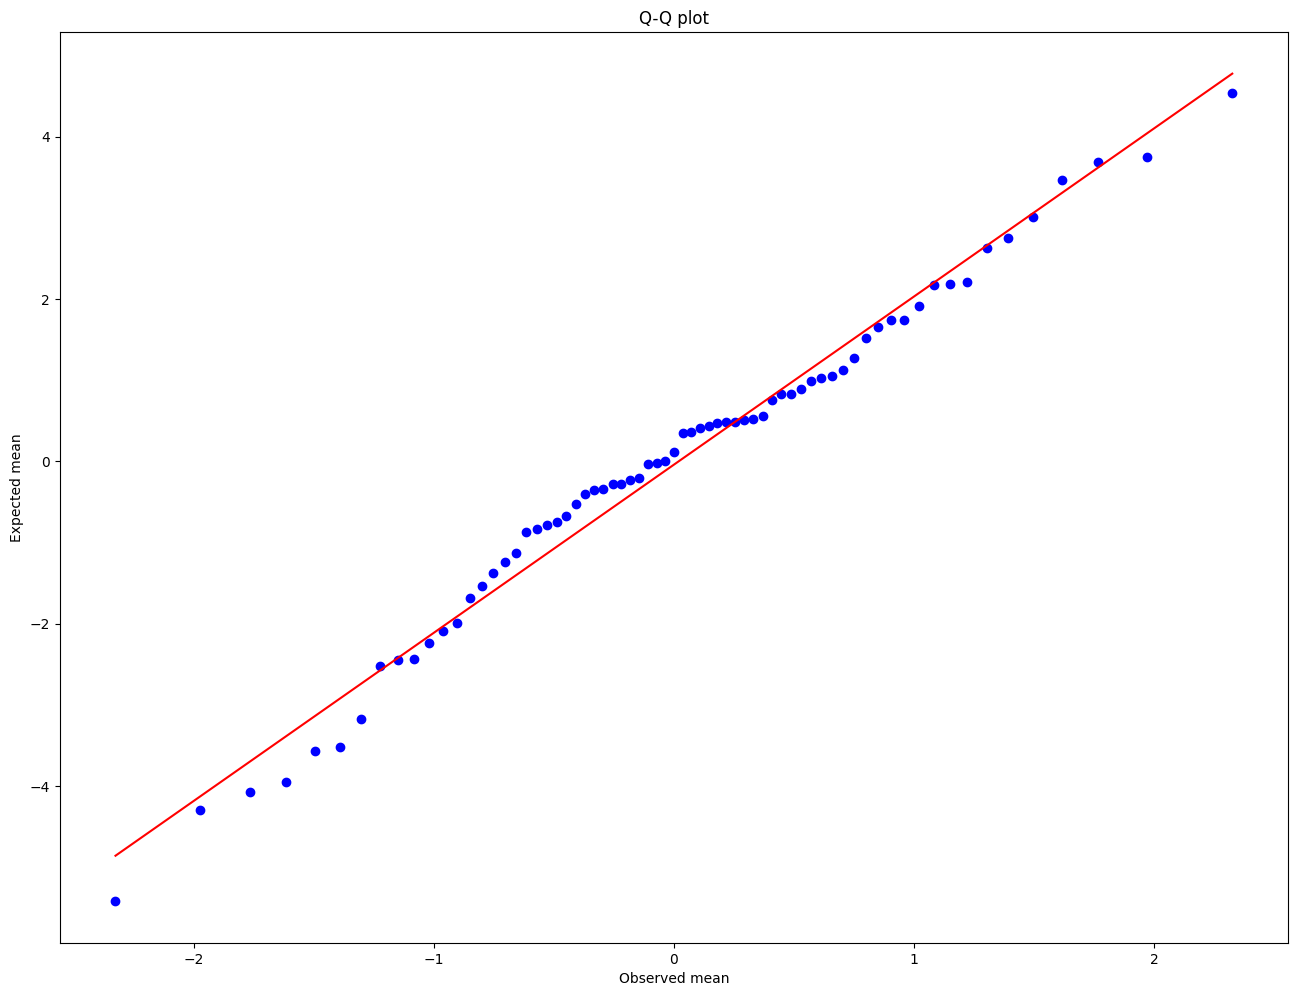
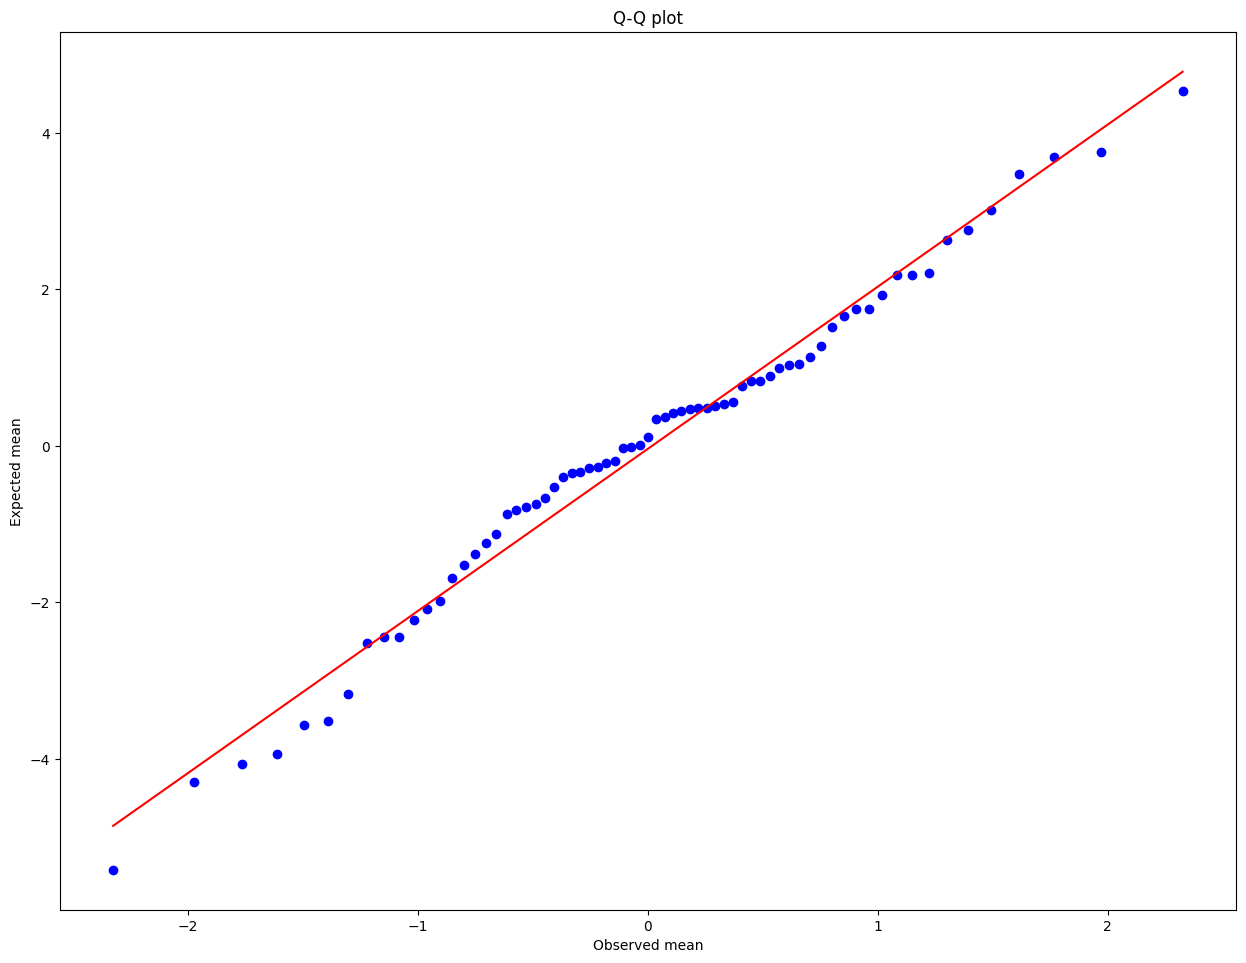
Adding README.

diff --git a/Comparison calimera/compare_all.py b/Comparison calimera/compare_all.py
@@ -11,6 +11,17 @@ import scipy.stats as stats
 import os
 import re
 
+def weight_a(data1, data2):
+    data1 = np.asarray(data1)
+    data2 = np.asarray(data2)
+    a = (np.var(data1) - np.cov(data1, data2, bias=False)[0][1]) / (np.var(data2) - np.cov(data1, data2, bias=False)[0][1] + np.var(data1))
+    return a
+
+def weight_a_minus(data1, data2):
+    data1 = np.asarray(data1)
+    data2 = np.asarray(data2)
+    a_minus = (np.var(data2) - np.cov(data1, data2, bias=False)[0][1]) / (np.var(data2) - np.cov(data1, data2, bias=False)[0][1] + np.var(data1))
+    return a_minus
 
 def hist_plot(data1, data2):
     data1 = np.asarray(data1)
@@ -19,16 +30,38 @@ def hist_plot(data1, data2):
     diff = data1 - data2
     plt.hist(diff)
 
+def calc_corr(data1, data2):
+    print("Corr coeff")
+    data1 = np.asarray(data1)
+    data2 = np.asarray(data2)
+    mean = np.mean([data1, data2], axis=0)
+    diff = data1 - data2
+    print(np.corrcoef(mean, diff))
+    print(np.corrcoef(data1, data2))
+
+def calc_variances(data1, data2):
+    print("Variances...")
+    print(np.var(data1))
+    print(np.var(data2))
+
 
 def calc_ks(data1, data2):
+    # p-value < 0.05 means: diff is not distributed normally (reject h0: from same distribution/normal distribution)
     data1 = np.asarray(data1)
     data2 = np.asarray(data2)
     mean = np.mean([data1, data2], axis=0)
     diff = data1 - data2
     return stats.kstest(diff, stats.norm.cdf)
 
+def calc_levene(data1, data2):
+    # p-value < 0.05 means: unequal variances of data1 and data2 (reject h0: equal variances)
+    stat, p_value = stats.levene(data1, data2)
+    print(f"Lavene's test statistic: {stat}")
+    print(f"P-value: {p_value}")
+
 
 def calc_shapiro(data1, data2):
+    # p-value > 0.05 means: do not reject null hypothesis: might be normally distributed
     data1 = np.asarray(data1)
     data2 = np.asarray(data2)
     mean = np.mean([data1, data2], axis=0)
@@ -44,7 +77,7 @@ def bland_altman(data1, data2, *args, **kwargs):
     md = np.mean(diff)  # Mean of the difference
     sd = np.std(diff, axis=0)  # Standard deviation of the difference
 
-    plt.scatter(mean, diff, *args, **kwargs)
+    plt.scatter(mean, diff/mean, *args, **kwargs)
     plt.axhline(md, color="blue", linestyle="--")
     plt.axhline(md + 1.96 * sd, color="red", linestyle="--")
     plt.axhline(md - 1.96 * sd, color="red", linestyle="--")
@@ -80,27 +113,30 @@ def qq_plot(data1, data2, *args, **kwargs):
 def bland_altman(data1, data2, *args, **kwargs):
     data1 = np.asarray(data1)
     data2 = np.asarray(data2)
+    #data1 = tmp1
+    #data2 = tmp2
     mean = np.mean([data1, data2], axis=0)
     diff = data1 - data2  # Difference between data1 and data2
-    md = np.mean(diff)  # Mean of the difference
+    md = np.mean(diff)  # Mean of the difference diff / mean for percentage
     sd = np.std(diff, axis=0)  # Standard deviation of the difference
 
-    plt.scatter(mean, diff, *args, **kwargs)
+    plt.scatter(mean, diff, *args, **kwargs) # diff / mean for percentage
     plt.axhline(md, color="blue", linestyle="--")
 
-    plt.text(5.0, float(md + 0.1), f"{abs(float(md)-0)}")
+    plt.text(5.0-5, float(md + 0.1), f"{abs(float(md)-0)}")
     plt.axhline(md + 1.96 * sd, color="red", linestyle="--")
     plt.axhline(md - 1.96 * sd, color="red", linestyle="--")
 
-    b, m = polyfit(mean, diff, 1)
+    b, m = polyfit(mean, diff, 1) # diff / mean for percentage
     print(f"b: {b}")
     print(f"m: {m}")
     plt.plot(mean, b + m * mean, color="yellow", linestyle="-.")
     # plt.plot(0, 0, color="black", linestyle=":")
-    slope, intercept, r_value, p_value, std_err = scipy.stats.linregress(mean, diff)
+    slope, intercept, r_value, p_value, std_err = scipy.stats.linregress(mean, diff) # diff / mean for percentage
     print(f"r2: {r_value*r_value}")
-    plt.text(6.5, 0, f"$R^2$: {r_value*r_value}")
-    plt.text(5.5, 1, f"p-value: {p_value}")
+    print(f"p-value: {p_value}")
+    plt.text(6.5-5, 0, f"$R^2$: {r_value*r_value}")
+    plt.text(5.5-5, 1, f"p-value: {p_value}")
     # plt.axline(xy1=(0, b), slope=m, color='r', label=f'$y = {m:.2f}x {b:+.2f}$')
 
 
@@ -353,6 +389,9 @@ if __name__ == "__main__":
     if ks.pvalue < 0.05 or shapiro.pvalue < 0.05:
         print("Test might not be applicable (Bland-Altman)")
     plt.clf()
+    calc_levene(min_RMRs, min_RMRsRef)
+    calc_variances(min_RMRs, min_RMRsRef)
+    calc_corr(min_RMRs, min_RMRsRef)
 
     qq_plot(min_RMRs, min_RMRsRef)
     plt.title("Q-Q plot")
@@ -363,7 +402,13 @@ if __name__ == "__main__":
     )
     plt.clf()
     plt.rcParams["text.usetex"] = True
-    bland_altman(min_RMRs, min_RMRsRef)
+    tmp1 = (1-weight_a_minus(min_RMRs, min_RMRsRef)) * np.asarray(min_RMRs)
+    tmp2 = weight_a(min_RMRs, min_RMRsRef) * np.asarray(min_RMRsRef)
+    print("after rescaling...")
+    calc_variances(tmp1, tmp2)
+    min_RMRs = tmp1
+    min_RMRsRef = tmp2
+    bland_altman(min_RMRsRef, min_RMRs)
     plt.title("Bland-Altman plot RMR method without and with activity data")
     plt.xlabel(r"$\frac{S_1+S_2}{2}$")
     plt.ylabel(r"$S_1-S_2$")
